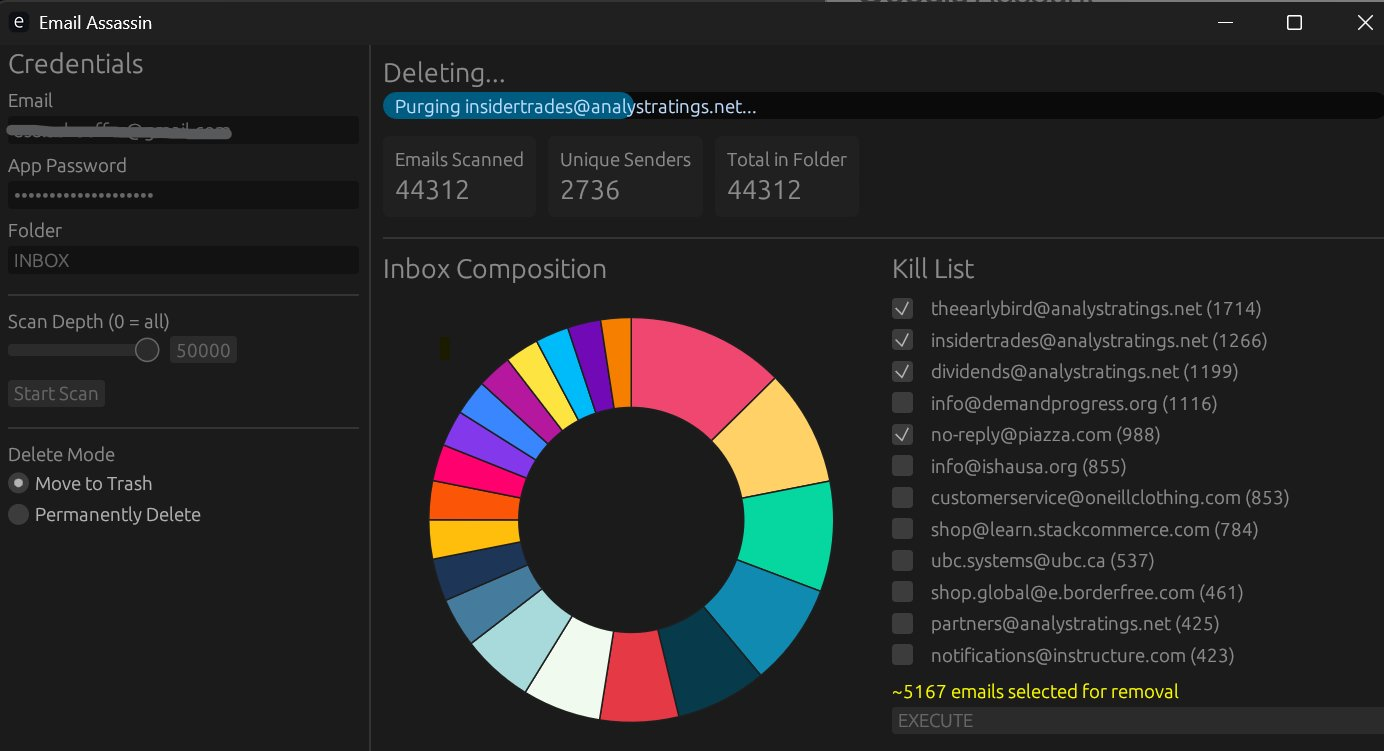
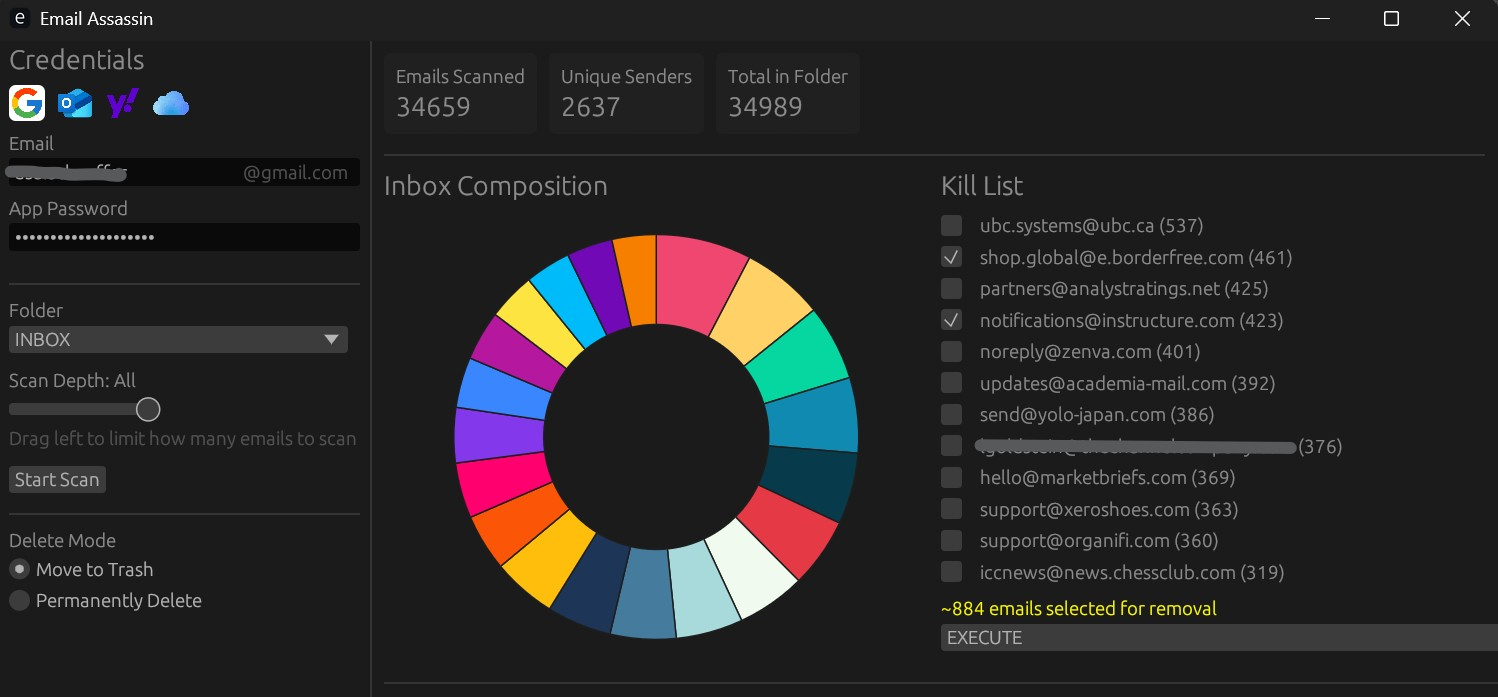
add tutorial hints and release v1.1.0

diff --git a/src/ui/sidebar.rs b/src/ui/sidebar.rs
@@ -56,6 +56,14 @@ pub fn draw_sidebar(
         }
     });
 
+    // Hint 1: prompt to select a provider
+    if state.email_domain.is_empty() {
+        ui.label(
+            egui::RichText::new("Select your email provider")
+                .color(ui.visuals().weak_text_color()),
+        );
+    }
+
     ui.add_space(4.0);
 
     // ── Username field with domain suffix overlay ──
@@ -90,6 +98,13 @@ pub fn draw_sidebar(
         );
     }
 
+    // Hint 2: prompt to enter username
+    if !state.email_domain.is_empty() && state.email_user.is_empty() {
+        ui.label(
+            egui::RichText::new("Enter your username").color(ui.visuals().weak_text_color()),
+        );
+    }
+
     ui.add_space(4.0);
     ui.label("App Password");
     let pass_resp = ui.add_enabled(
@@ -98,6 +113,26 @@ pub fn draw_sidebar(
             .password(true)
             .hint_text("app password"),
     );
+
+    // Hint 3: provider-specific app password link with external-link indicator
+    if !state.email_user.is_empty() && state.password.is_empty() {
+        let hints: &[(&str, &str, &str)] = &[
+            ("@gmail.com", "Generate a Gmail App Password (requires 2FA)", "https://myaccount.google.com/apppasswords"),
+            ("@outlook.com", "Create an Outlook App Password", "https://account.live.com/proofs/AppPassword"),
+            ("@yahoo.com", "Generate a Yahoo App Password", "https://login.yahoo.com/myaccount/security/"),
+            ("@icloud.com", "Create an iCloud App-Specific Password", "https://appleid.apple.com/account/manage/section/security"),
+        ];
+        let domain = state.email_domain.to_lowercase();
+        if let Some((_, label, url)) = hints.iter().find(|(d, _, _)| *d == domain) {
+            let text = format!("{label} \u{2197}"); // ↗ external link arrow
+            ui.horizontal_wrapped(|ui| {
+                ui.hyperlink_to(
+                    egui::RichText::new(text).color(ui.visuals().weak_text_color()),
+                    *url,
+                );
+            });
+        }
+    }
 
     // Credential change invalidation: collapse back to Stage 1
     if email_resp.changed() || pass_resp.changed() {
@@ -115,17 +150,19 @@ pub fn draw_sidebar(
             ui.spinner();
             ui.label("Connecting...");
         });
-    } else if ui
-        .add_enabled(can_connect, egui::Button::new("Connect"))
-        .clicked()
-    {
-        state.phase = AppPhase::Connecting;
-        state.error_message = None;
-        state.available_folders.clear();
-        let _ = cmd_tx.send(UiCommand::FetchFolders {
-            email: state.email(),
-            password: state.password.clone(),
-        });
+    } else if state.available_folders.is_empty() {
+        if ui
+            .add_enabled(can_connect, egui::Button::new("Connect"))
+            .clicked()
+        {
+            state.phase = AppPhase::Connecting;
+            state.error_message = None;
+            state.available_folders.clear();
+            let _ = cmd_tx.send(UiCommand::FetchFolders {
+                email: state.email(),
+                password: state.password.clone(),
+            });
+        }
     }
 
     // ── Stage 2: Folder & Scan config (only after successful connect) ──
@@ -145,10 +182,32 @@ pub fn draw_sidebar(
                 }
             });
 
+        // Hint 4: prompt to choose a folder
+        if state.folder.is_empty() {
+            ui.label(
+                egui::RichText::new("Choose a mailbox folder to scan")
+                    .color(ui.visuals().weak_text_color()),
+            );
+        }
+
         ui.add_space(8.0);
 
-        ui.label("Scan Depth (0 = all)");
-        ui.add_enabled(!busy, egui::Slider::new(&mut state.scan_depth, 0..=50000));
+        const MAX_DEPTH: u32 = 50_000;
+        let label = if state.scan_depth >= MAX_DEPTH {
+            "Scan Depth: All".to_string()
+        } else {
+            format!("Scan Depth: {}", state.scan_depth)
+        };
+        ui.label(label);
+        ui.add_enabled(!busy, egui::Slider::new(&mut state.scan_depth, 0..=MAX_DEPTH).show_value(false));
+
+        // Hint 5: explain scan depth
+        if state.scan_depth >= MAX_DEPTH && !state.folder.is_empty() {
+            ui.label(
+                egui::RichText::new("Drag left to limit how many emails to scan")
+                    .color(ui.visuals().weak_text_color()),
+            );
+        }
 
         ui.add_space(8.0);
 
@@ -164,11 +223,12 @@ pub fn draw_sidebar(
             state.senders.clear();
             state.sender_selected.clear();
 
+            let depth = if state.scan_depth >= MAX_DEPTH { 0 } else { state.scan_depth };
             let _ = cmd_tx.send(UiCommand::StartScan {
                 email: state.email(),
                 password: state.password.clone(),
                 folder: state.folder.clone(),
-                scan_depth: state.scan_depth,
+                scan_depth: depth,
             });
         }
 

diff --git a/src/state.rs b/src/state.rs
@@ -61,7 +61,7 @@ impl Default for AppState {
             email_domain: String::new(),
             password: String::new(),
             folder: "INBOX".to_string(),
-            scan_depth: 0,
+            scan_depth: 50_000,
             phase: AppPhase::Idle,
             delete_mode: DeleteMode::Trash,
             scan_progress: 0.0,
